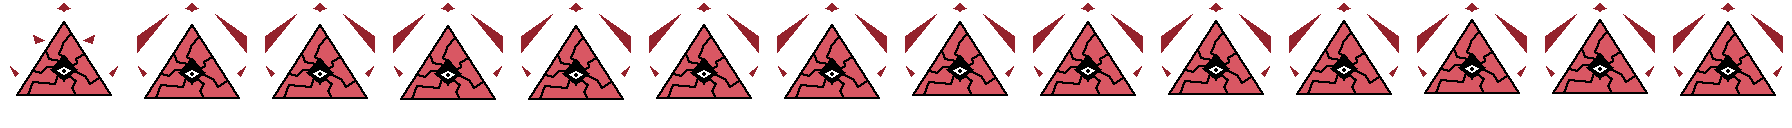
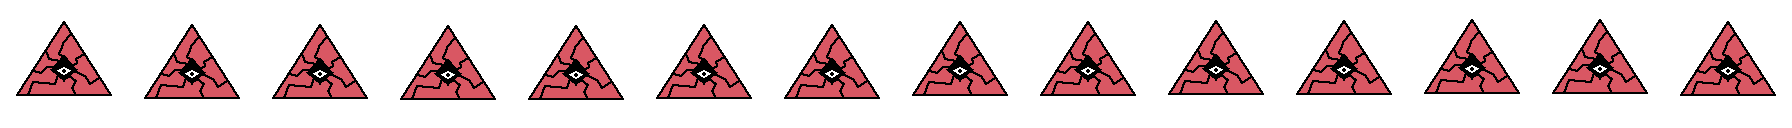
Some changes

diff --git a/BobCan/Main.cpp b/BobCan/Main.cpp
@@ -1,4 +1,5 @@
 #include <SFML/Graphics.hpp>
+#include <SFML/System.hpp>
 #include <spdlog/spdlog.h>
 
 #include <chrono>
@@ -11,8 +12,9 @@
 
 constexpr auto GAME_WIDTH = 1280;
 constexpr auto GAME_HEIGHT = 720;
+constexpr auto GRAVITY = 40;
 
-enum Skills
+enum Skill
 {
 	WALK = 0,
 	SHIELD,
@@ -20,20 +22,38 @@ enum Skills
 	SHOOT
 };
 
+struct Bullet
+{
+	sf::Vector2f position;
+	sf::Vector2f direction;
+	sf::RectangleShape rect;
+
+	Bullet()
+	{
+		rect.setSize({ 10.0f, 10.0f });
+		rect.setFillColor(sf::Color::Red);
+	}
+};
+
 struct Player
 {
 	sf::Sprite* sprite;
 	sf::Texture texture;
-	std::set<Skills> currentSkills;
+	std::set<Skill> currentSkills;
+	std::vector<Bullet> bullets;
+	sf::Vector2f currentPosition;
+	bool falling;
 	int hp;
 
 	Player()
 	{
 		texture = sf::Texture("Resources/Bob.png");
 		sprite = new sf::Sprite(texture);
+		currentPosition = sf::Vector2f({ 200, 300 });
 		sprite->setScale({ 2.0f, 2.0f });
-		sprite->setPosition({ 100, 300 });
+		sprite->setPosition(currentPosition);
 		hp = 20;
+		falling = false;
 	}
 
 	~Player()
@@ -46,15 +66,22 @@ struct Boss
 {
 	sf::Sprite* sprite;
 	sf::Texture texture;
+	sf::Vector2f currentPosition;
+	sf::IntRect textureRect;
+	sf::Clock clock;
+	int currentAnimationFrame;
 	int hp;
 
 	Boss()
 	{
 		texture = sf::Texture("Resources/Boss.png");
 		sprite = new sf::Sprite(texture);
+		currentPosition = sf::Vector2f({ 530, 260 });
 		sprite->setScale({ 2.0f, 2.0f });
-		sprite->setTextureRect(sf::IntRect({ 0, 0 }, { 128, 128 }));
-		sprite->setPosition({ 400, 300 });
+		textureRect = sf::IntRect({ 0, 0 }, { 128, 128 });
+		sprite->setTextureRect(textureRect);
+		sprite->setPosition(currentPosition);
+		currentAnimationFrame = 0;
 		hp = 50;
 	}
 
@@ -70,11 +97,11 @@ struct World
 
 	World()
 	{
-		sf::RectangleShape mainPlatform({ 20.0f, 30.0f });
+		sf::RectangleShape mainPlatform({ 1000.0f, 200.0f });
 		mainPlatform.setPosition({
 			(GAME_WIDTH / 2) - (mainPlatform.getSize().x / 2),
-			(GAME_HEIGHT / 2) - (mainPlatform.getSize().y / 2)
-		});
+			GAME_HEIGHT - mainPlatform.getSize().y - 20.0f
+			});
 		mainPlatform.setFillColor(sf::Color::Black);
 
 		rectangles.push_back(mainPlatform);
@@ -86,15 +113,88 @@ struct Game
 	World world;
 	Player player;
 	Boss boss;
+	bool gameOver = false;
+	sf::Font quaverPixelFont;
+	sf::Text* gameOverText;
 
-	void update()
+	Game()
 	{
+		quaverPixelFont = sf::Font("Resources/quaver.ttf");
+		gameOverText = new sf::Text(quaverPixelFont, "GAME OVER", 50);
+		gameOverText->setFillColor(sf::Color::Black);
 
+		gameOverText->setPosition({
+			(GAME_WIDTH / 2) - (gameOverText->getGlobalBounds().size.x / 2),
+			(GAME_HEIGHT / 2) - (gameOverText->getGlobalBounds().size.y / 2),
+			});
+	}
+
+	~Game()
+	{
+		delete gameOverText;
+	}
+
+	void update(sf::RenderWindow& window)
+	{
+		if (sf::Keyboard::isKeyPressed(sf::Keyboard::Scancode::A))
+		{
+			player.currentPosition += sf::Vector2f({ -3.0f, 0.0f });
+		}
+		else if (sf::Keyboard::isKeyPressed(sf::Keyboard::Scancode::D))
+		{
+			player.currentPosition += sf::Vector2f({ 3.0f, 0.0f });
+		}
+
+		if (player.falling)
+		{
+			player.currentPosition += sf::Vector2f({ 0.0f, 3.0f });
+		}
+
+		for (const sf::RectangleShape rectangle : world.rectangles)
+		{
+			sf::FloatRect rectGlobalBounds = rectangle.getGlobalBounds();
+			sf::FloatRect playerGlobalBounds = player.sprite->getGlobalBounds();
+
+			if (rectGlobalBounds.findIntersection(playerGlobalBounds) == std::nullopt)
+			{
+				if (player.falling == false)
+					player.falling = true;
+				LOG_INFO("Player is falling...");
+			}
+			else
+			{
+				player.falling = false;
+			}
+		}
+
+		player.sprite->setPosition(player.currentPosition);
+
+		if (boss.clock.getElapsedTime() >= sf::milliseconds(100))
+		{
+			boss.currentAnimationFrame++;
+			boss.textureRect.position.x += 128;
+			boss.clock.restart();
+		}
+
+		if (boss.currentAnimationFrame == 13)
+		{
+			boss.currentAnimationFrame = 0;
+			boss.textureRect.position.x = 0;
+		}
+
+		boss.sprite->setTextureRect(boss.textureRect);
+
+		if (sf::Mouse::isButtonPressed(sf::Mouse::Button::Left) &&
+			boss.sprite->getGlobalBounds().contains({ (float)sf::Mouse::getPosition(window).x, (float)sf::Mouse::getPosition(window).y }))
+		{
+			LOG_INFO("Killed the monster");
+			gameOver = true;
+		}
 	}
 };
 
 char lore[] =
-	"This is the lore";
+"This is the lore";
 
 int main(void)
 {
@@ -106,7 +206,7 @@ int main(void)
 	sf::Sprite background(backgroundTexture);
 	sf::Clock clock;
 	Game game;
-	
+
 	std::chrono::high_resolution_clock::time_point start;
 	std::chrono::high_resolution_clock::time_point end;
 	float fps = 0;
@@ -130,13 +230,13 @@ int main(void)
 		{
 			if (event->is<sf::Event::Closed>() ||
 				(event->is<sf::Event::KeyPressed>() &&
-				 event->getIf<sf::Event::KeyPressed>()->code == sf::Keyboard::Key::Escape))
+					event->getIf<sf::Event::KeyPressed>()->code == sf::Keyboard::Key::Escape))
 			{
 				window.close();
 			}
 		}
 
-		game.update();
+		game.update(window);
 
 #ifdef _DEBUG
 		if (clock.getElapsedTime() >= sf::seconds(0.25f))
@@ -151,17 +251,24 @@ int main(void)
 		// Draw
 		window.clear(sf::Color::White);
 
-		window.draw(background);
-		window.draw(fpsText);
-
-		for (const sf::RectangleShape& rectangle : game.world.rectangles)
+		if (game.gameOver)
 		{
-			window.draw(rectangle);
+			window.draw(*game.gameOverText);
 		}
+		else
+		{
+			window.draw(background);
+			window.draw(fpsText);
 
-		window.draw(*game.player.sprite);
-		window.draw(*game.boss.sprite);
+			for (const sf::RectangleShape& rectangle : game.world.rectangles)
+			{
+				window.draw(rectangle);
+			}
 
+			window.draw(*game.player.sprite);
+			window.draw(*game.boss.sprite);
+		}
+		
 		window.display();
 
 		end = std::chrono::high_resolution_clock::now();